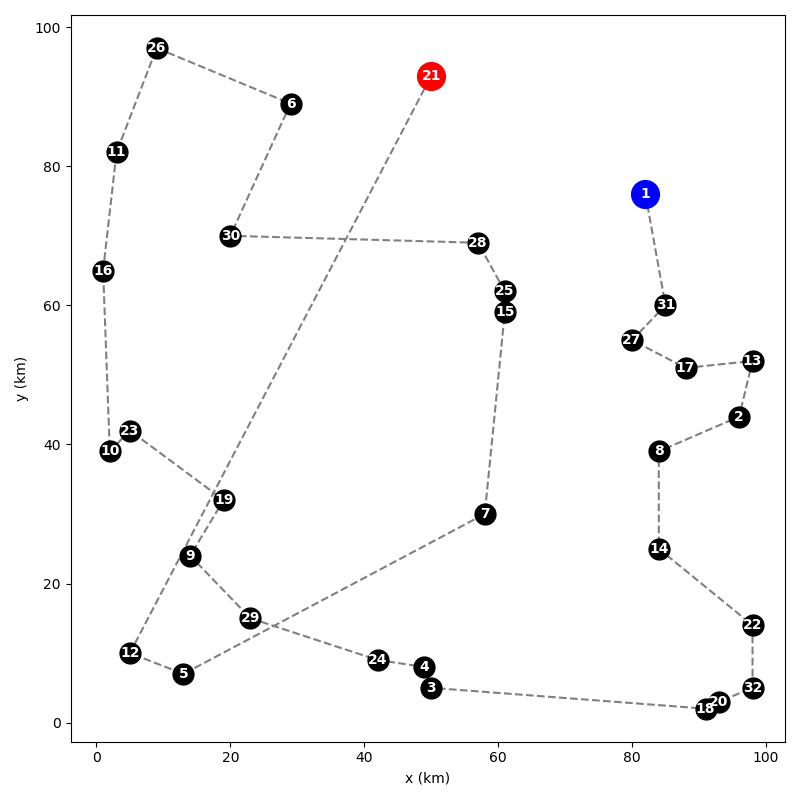
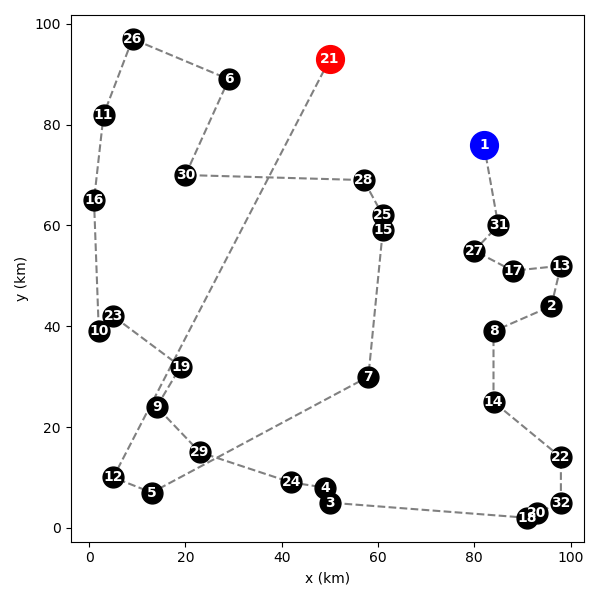
Made images smaller in readme.

diff --git a/functions.py b/functions.py
@@ -25,7 +25,7 @@ def get_points_from_route(points, route):
 
 def plot_stuff(points, ordered_points):
     # plot points
-    fig, ax = plt.subplots(figsize=(8, 8))
+    fig, ax = plt.subplots(figsize=(6, 6))
     plt.setp(ax, xlabel="x (km)", ylabel="y (km)")
     plt.plot(*points.T, "ok", ms=15, zorder=1)
     for ii, pt in enumerate(points):

diff --git a/README.md b/README.md
@@ -1,6 +1,6 @@
 # Traveling salesman challenge
 
-This program reads in a `csv` file containing the x-y coordinates of several points, and chooses a route which visits each point exactly once. Depending on the user's inputs, the route can be randomly generated or picked based on the closest neighbouring points. 
+This program reads in a `csv` file containing the x,y coordinates of several points, and chooses a route which visits each point exactly once. Depending on the user's inputs, the route can be randomly generated or picked based on the closest neighbouring points. 
 
 ## How to run the program 
 
@@ -66,6 +66,8 @@ As a simple improvement, I have implemented an algorithm which picks the next cl
 
 <img src="images/sensible.png">
 
-This is much better than the random route. It is not optimal, however. The algorithm only considers one point at a time, and does not consider the context of the whole route. Consequently, points it chooses to skip early on can result in costly jumps when they are included later. See below; point 21 could have been included between points 6 and 28 at a much lower cost than the jump from point 12.  
+This is much better than the random route. It is not optimal, however. The algorithm has a very "local" view; it only considers one point at a time, and does not consider the context of the whole route. Consequently, points it chooses to skip early on because they are slightly out of the way can result in costly jumps when they are included later. See below; point 21 could have been included between points 6 and 28 at a much lower cost than the jump from point 12.  
+
 <img src="images/big_jump.png">
 
+Given more time, I would implement an optimisation with the route length as the cost function. 
